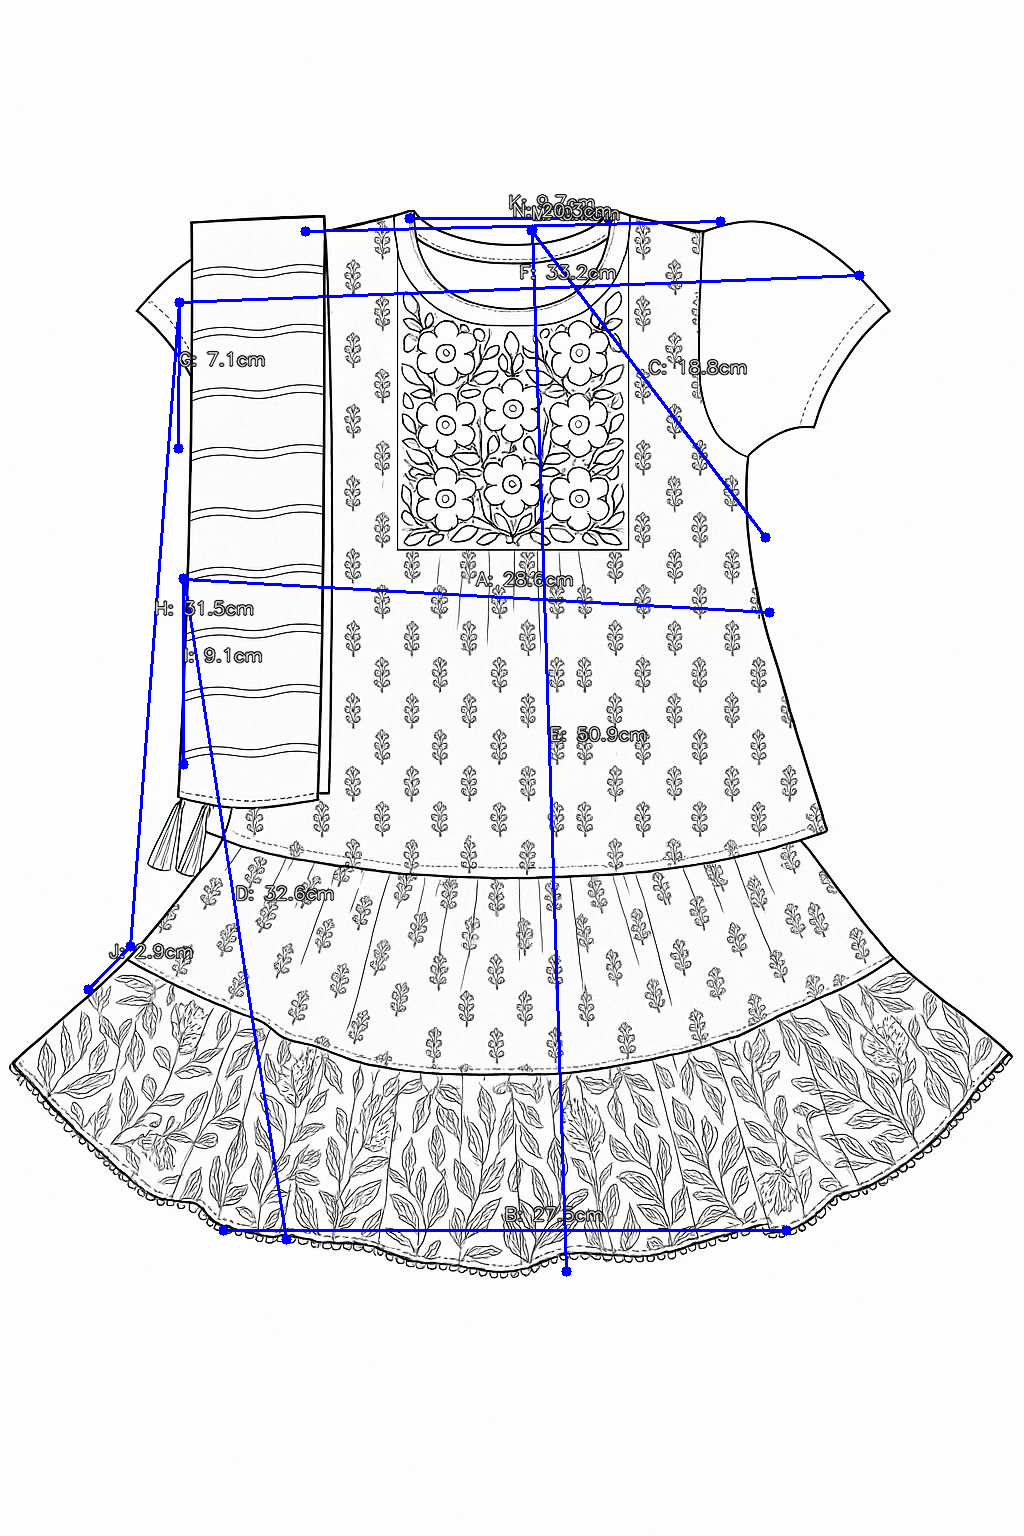
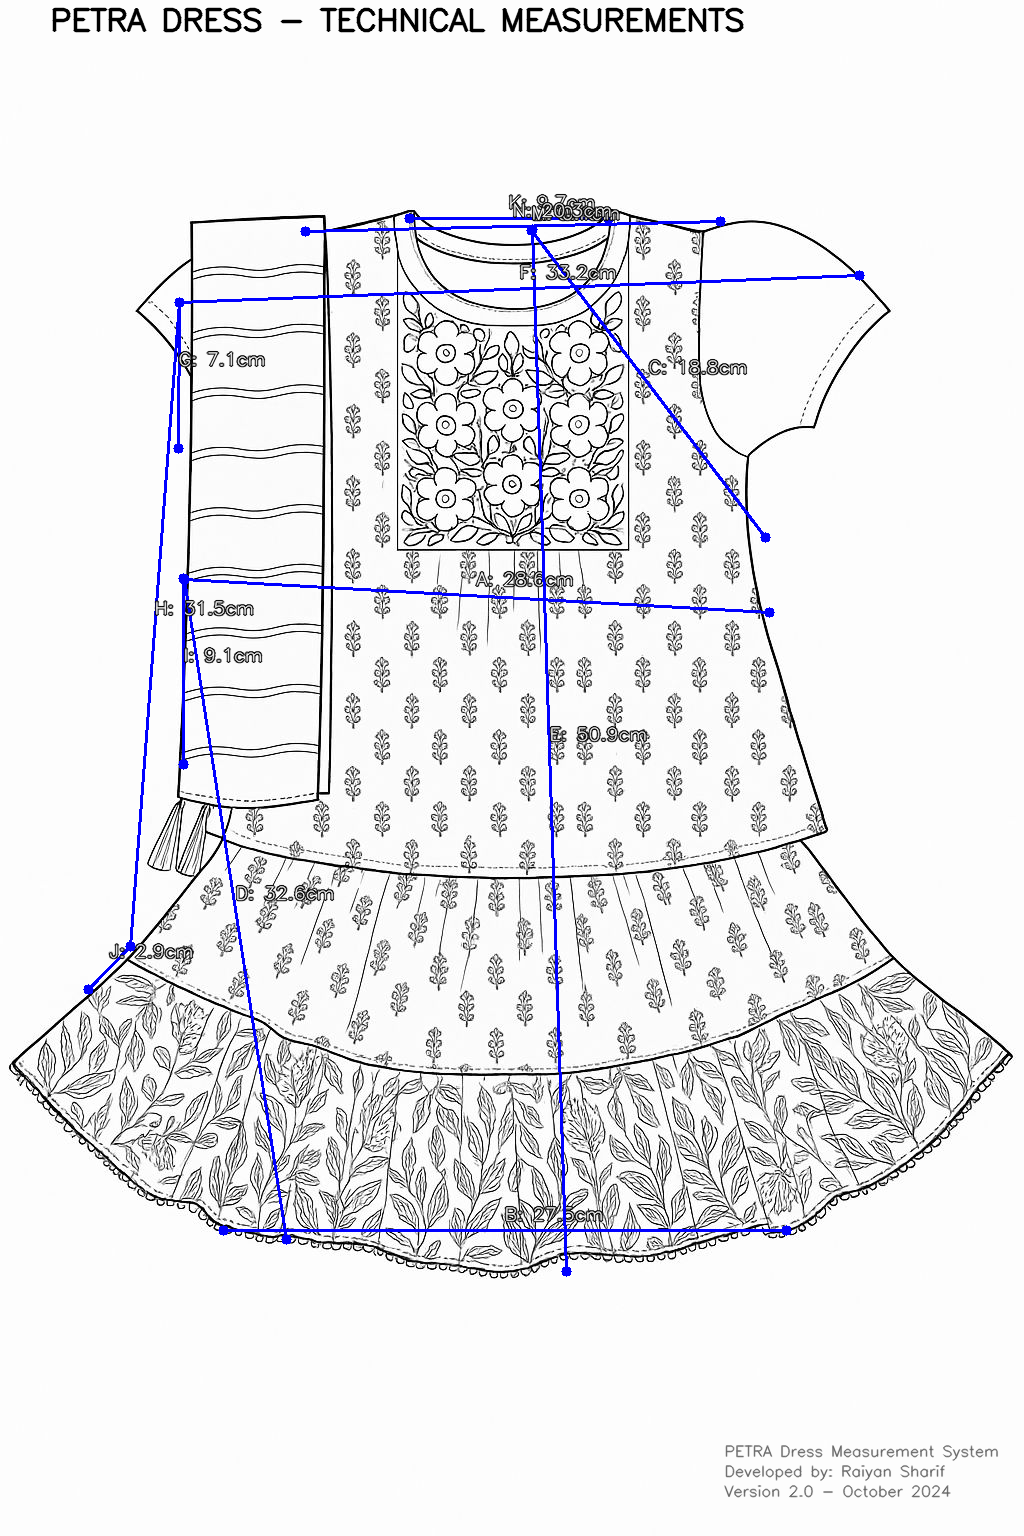
updated image with signature

Changed region(s): [[0.3125, 0.0, 0.7188, 0.0312], [0.7188, 0.9375, 0.9688, 1.0], [0.0312, 0.0, 0.25, 0.0312]]

diff --git a/petra_dress_measurements.py b/petra_dress_measurements.py
@@ -217,6 +217,26 @@ class PetraDressMeasurements:
             self.draw_measurement_line(annotated_image, snapped_point1, snapped_point2, 
                                      measurement_id, cm_distance)
         
+        # Add title at the top
+        title = "PETRA DRESS - TECHNICAL MEASUREMENTS"
+        cv2.putText(annotated_image, title, (50, 30), cv2.FONT_HERSHEY_SIMPLEX, 1.0, (0, 0, 0), 2, cv2.LINE_AA)
+        
+        # Add signature at bottom right
+        signature_lines = [
+            "PETRA Dress Measurement System",
+            "Developed by: Raiyan Sharif",
+            "Version 2.0 - October 2024"
+        ]
+        
+        # Calculate signature position (bottom right with padding)
+        signature_x = width - 300
+        signature_y = height - 80
+        
+        for i, line in enumerate(signature_lines):
+            y_pos = signature_y + (i * 20)
+            cv2.putText(annotated_image, line, (signature_x, y_pos), 
+                       cv2.FONT_HERSHEY_SIMPLEX, 0.5, (100, 100, 100), 1, cv2.LINE_AA)
+        
         self.measurements = calculated_measurements
         return annotated_image, calculated_measurements
     
@@ -295,3 +315,17 @@ def main():
 
 if __name__ == "__main__":
     exit(main())
+
+# =============================================================================
+# PETRA Dress Measurement System
+# Professional Technical Drawing Generator
+# 
+# Developed by: Raiyan Sharif
+# Date: October 2024
+# Version: 2.0 (Simplified OpenCV Edition)
+# Specification: PETRA_INQ.xlsm Compliance
+# 
+# This system generates professional technical drawings with precise 
+# measurements following industry standards for dress pattern making 
+# and garment construction.
+# =============================================================================

diff --git a/main.py b/main.py
@@ -258,6 +258,22 @@ for measurement_id, (point1, point2) in measurement_points.items():
 title = "PETRA DRESS - TECHNICAL MEASUREMENTS"
 cv2.putText(annotated, title, (50, 30), cv2.FONT_HERSHEY_SIMPLEX, 1.0, (0, 0, 0), 2, cv2.LINE_AA)
 
+# --- Add signature at bottom right ---
+signature_lines = [
+    "PETRA Dress Measurement System",
+    "Developed by: Raiyan Sharif",
+    "Version 2.0 - October 2024"
+]
+
+# Calculate signature position (bottom right with padding)
+signature_x = width - 300
+signature_y = height - 80
+
+for i, line in enumerate(signature_lines):
+    y_pos = signature_y + (i * 20)
+    cv2.putText(annotated, line, (signature_x, y_pos), 
+               cv2.FONT_HERSHEY_SIMPLEX, 0.5, (100, 100, 100), 1, cv2.LINE_AA)
+
 # --- Determine dress size ---
 determined_size, error = determine_dress_size(calculated_measurements)
 

diff --git a/README.md b/README.md
@@ -366,3 +366,17 @@ This project follows the specifications from PETRA_INQ.xlsm for professional dre
 ---
 
 **Ready to generate professional dress measurements!** 🎨📏
+
+---
+
+## 📝 Signature
+
+**PETRA Dress Measurement System**  
+*Professional Technical Drawing Generator*
+
+**Developed by:** Raiyan Sharif  
+**Date:** October 2024  
+**Version:** 2.0 (Simplified OpenCV Edition)  
+**Specification:** PETRA_INQ.xlsm Compliance  
+
+*This system generates professional technical drawings with precise measurements following industry standards for dress pattern making and garment construction.*
